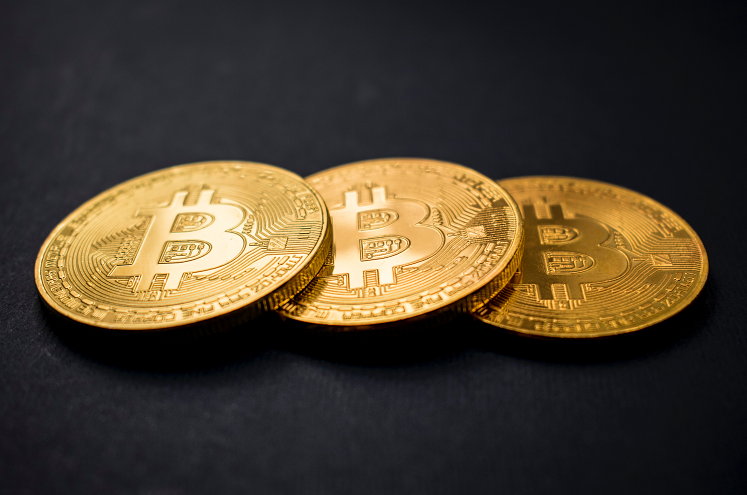
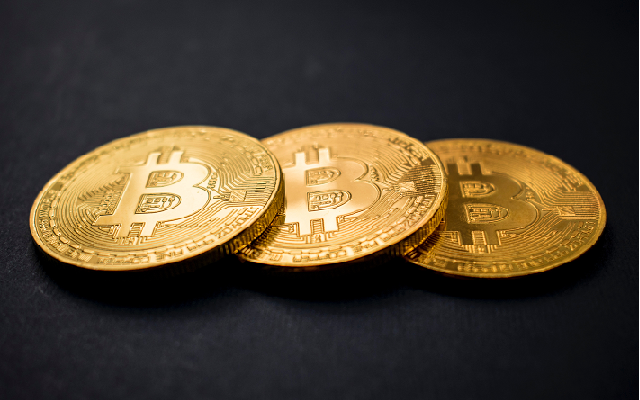
Updated the project pictures to the same size rather than dealing with adding in padding. Scaled down the background image into something smaller.

Changed region(s): [[0.0312, 0.3, 0.9688, 0.72], [0.6875, 0.72, 0.7188, 0.75], [0.4062, 0.72, 0.4375, 0.75]]

diff --git a/css/basic.css b/css/basic.css
@@ -1,5 +1,5 @@
 body {
-    background-image: url("../images/space_bg.jpg");
+    background-image: url("../images/space_less_resolution.png");
     height: 100vh;
 
     background-position: absolute;

diff --git a/README.md b/README.md
@@ -20,7 +20,7 @@ resources from. Going to keep track of that here.
 1. Modified the image to be smaller and wider. Now called "gear_image_smaller.png"
 https://unsplash.com/photos/xH2W1G5VJpQ?utm_source=unsplash&utm_medium=referral&utm_content=creditShareLink
 
-2. Using this as the main background, renamed to "space_bg.jpg" since there seems to be issues
+2. Using this as the main background, renamed to "space_less_resolution.png" since there seems to be issues
 with anything with "-" in the file path.
 https://unsplash.com/photos/E0AHdsENmDg?utm_source=unsplash&utm_medium=referral&utm_content=creditShareLink
 
